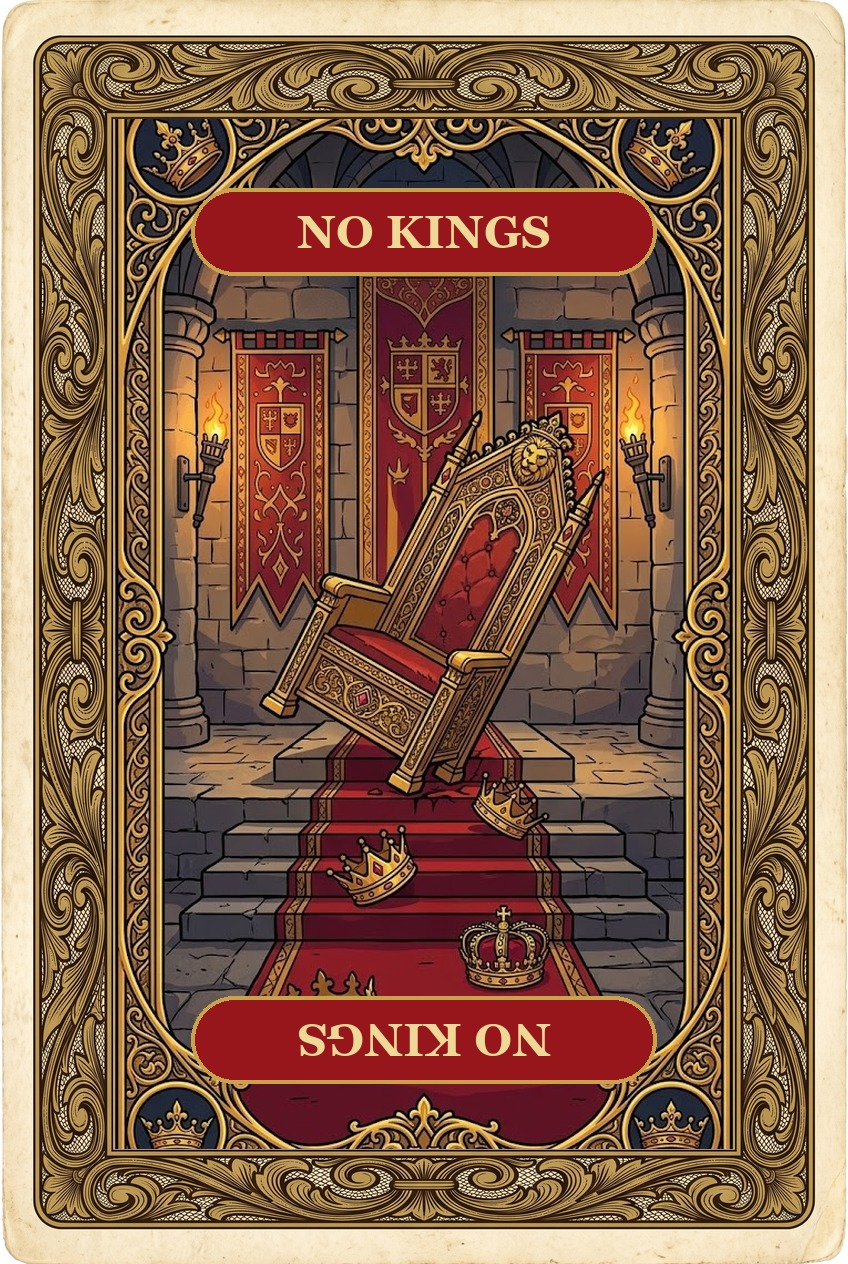
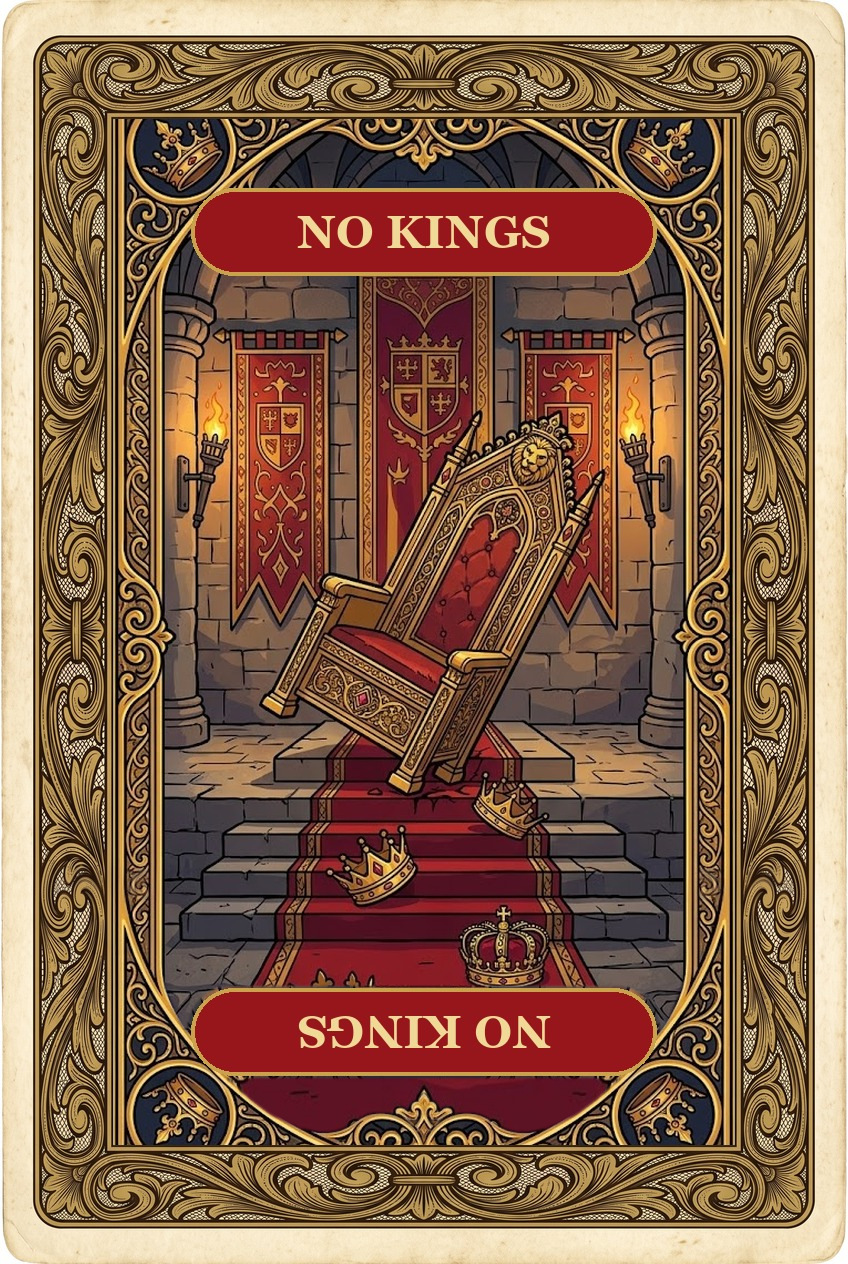
Card back: bottom border matches the top (lower crowns no longer cut off); SW v0-46
The bottom of the card back is now the top border turned 180°, so both
lower crown medallions are whole and the back reads the same either way up.

Changed region(s): [[0.0307, 0.6788, 1.0, 1.0], [0.0, 0.9565, 0.0613, 1.0], [0.9811, 0.7097, 1.0, 0.7405]]

diff --git a/sw.js b/sw.js
@@ -1,4 +1,4 @@
-const CACHE='nokings-v0-45';
+const CACHE='nokings-v0-46';
 const ASSETS=['./','index.html','manifest.json','assets/i18n.js?v=2'];
 self.addEventListener('install',e=>{e.waitUntil(caches.open(CACHE).then(c=>c.addAll(ASSETS)).then(()=>self.skipWaiting()));});
 self.addEventListener('activate',e=>{e.waitUntil(caches.keys().then(ks=>Promise.all(ks.filter(k=>k!==CACHE&&k.startsWith('nokings-')).map(k=>caches.delete(k)))).then(()=>self.clients.claim()));});
